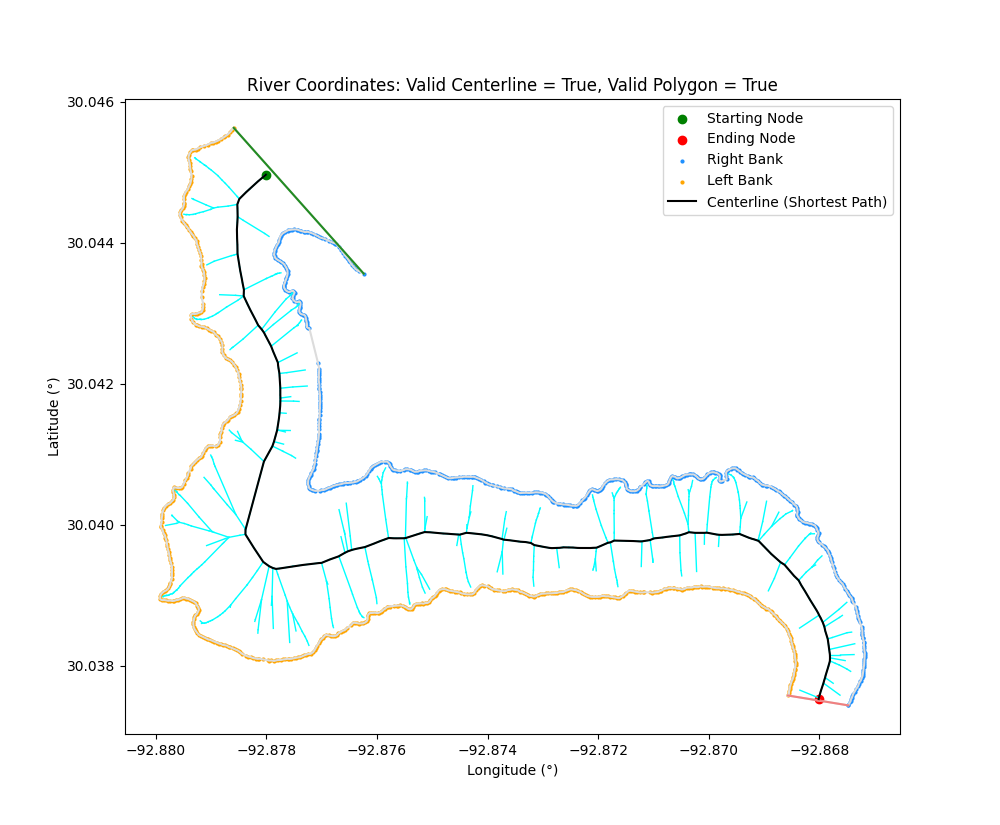
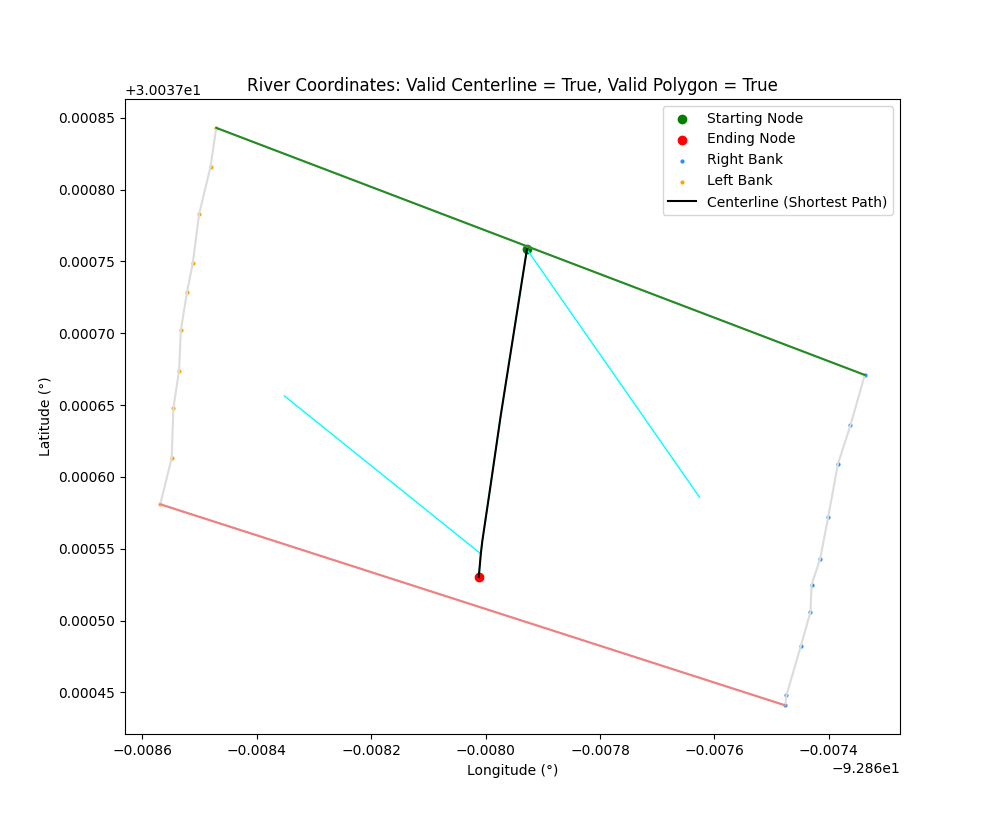
return the latitude/longtiude coordinates for the centerline

diff --git a/river_centerline_width.py b/river_centerline_width.py
@@ -166,8 +166,20 @@ def networkXGraphShortestPath(all_points_dict, starting_node, ending_node):
 	#nx.draw(graph_connections)
 	return shortest_path
 ########################################################################
+def centerlineLatitudeLongitude(river_df=None):
+	# Returns the latitude and longitude for the centerline
+	left_bank_coordinates, right_bank_coordinates = leftRightCoordinates(river_df)
+
+	river_bank_polygon, top_river_line, bottom_river_line = generatePolygon(left_bank_coordinates, right_bank_coordinates)
+	river_bank_voronoi = generateVoronoi(left_bank_coordinates, right_bank_coordinates)
+
+	starting_node, ending_node, x_ridge_point, y_ridge_point, start_end_points_dict = centerlinePath(river_bank_voronoi, river_bank_polygon, top_river_line, bottom_river_line)
+	shortest_path_coordinates = networkXGraphShortestPath(start_end_points_dict, starting_node, ending_node)
+
+	return shortest_path_coordinates
 
 def plotRiver(river_df=None, display_all_paths=False, save_plot_name=None):
+	# display_all_paths: display all possible paths (not just centerline) (useful for debugging)
 	# Plot river
 	left_bank_coordinates, right_bank_coordinates = leftRightCoordinates(river_df)
 	river_bank_polygon, top_river_line, bottom_river_line = generatePolygon(left_bank_coordinates, right_bank_coordinates)
@@ -234,20 +246,20 @@ def plotRiver(river_df=None, display_all_paths=False, save_plot_name=None):
 if __name__ == "__main__":
 	convertColumnsToCSV(text_file="data/river_coords.txt", flipBankDirection=True)
 	df = pd.read_csv("data/river_coords.csv")
-	#df = df.head(10) # valid centerline, valid path, valid polygon, valid starting node, valid ending node
+	# Valid Examples
+	df = df.head(10) # valid centerline, valid path, valid polygon, valid starting node, valid ending node
 	#df = df.head(100) # valid centerline, valid path, valid polygon, valid starting node, valid ending node
-	df = df.head(550) # valid centerline, valid path, valid polygon, valid starting node, valid ending node
-
+	#df = df.head(550) # valid centerline, valid path, valid polygon, valid starting node, valid ending node
+	# Invalid Examples
 	#df = df.head(250) # valid centerline, valid path, invalid polygon, valid starting node, valid ending nodes
 	#df = df.head(40) # invalid centerline, valid path, valid polgyon, invalid starting node, valid ending node
 	#df = df.head(700) # invalid centerline, valid path, valid polgyon, invalid starting node, valid ending node
 	#df = df.head(1000) # invalid centerline, invalid path, invalid polgyon, invalid starting node, valid ending node
 
-	# Plot river banks
-	display_debugging = True # display all possible paths (not just centerline) (useful for debugging)
-	plotRiver(river_df=df,
-			save_plot_name="data/river_coords.png",
-			display_all_paths=display_debugging)
-
 	# Return the latitude/longtiude coordinates for the centerline
+	centerline_longitude_latitude_coordinates = centerlineLatitudeLongitude(river_df=df)
+
+	# Plot river banks
+	plotRiver(river_df=df, save_plot_name="data/river_coords.png", display_all_paths=True)
+
 	# Return the width of the river for each centerline vertex (distance from right, left, total)
